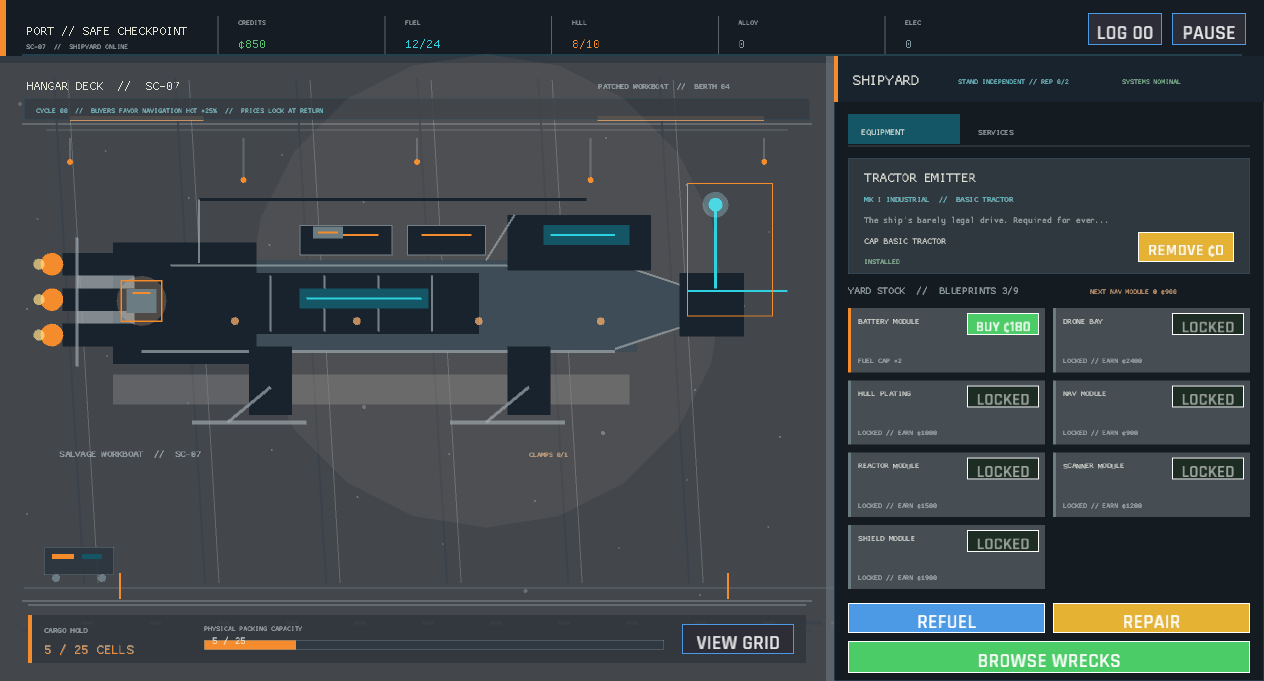
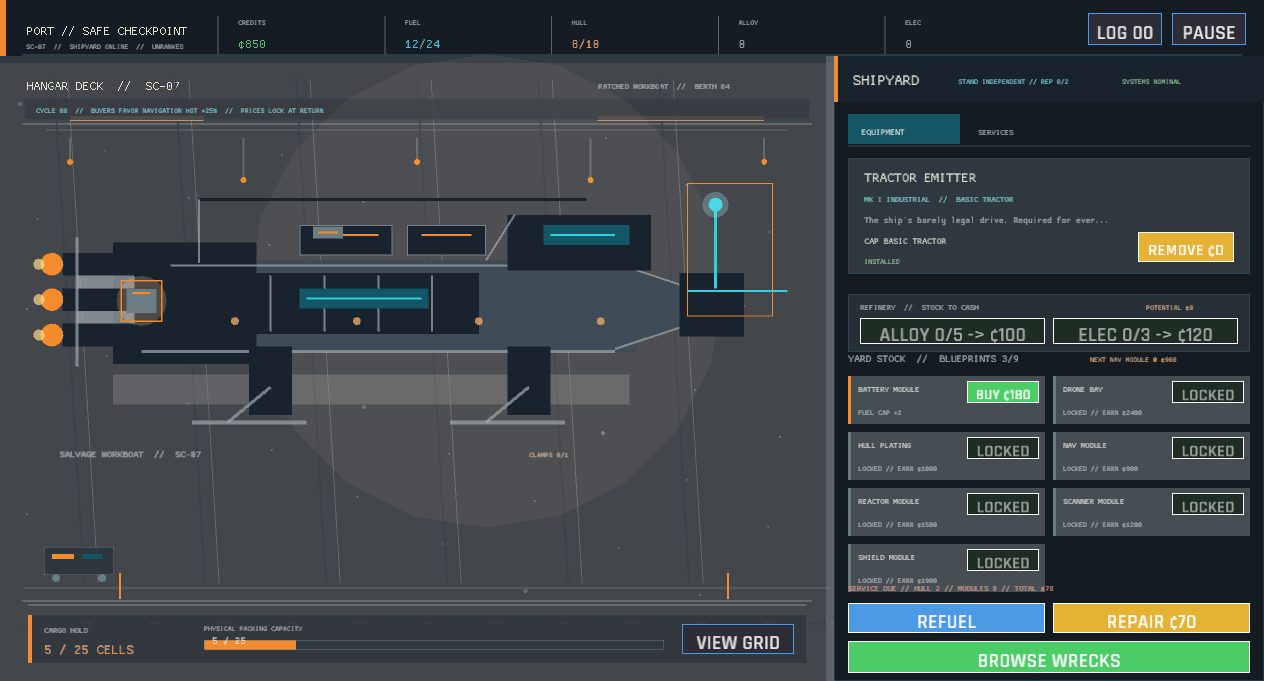
The port radio carries the captain's rank between every run (port career identity)
The shipyard header now carries a compact career rank code so progression remains visible during ordinary outfitting and refueling. The rank derives from the same commendation thresholds used by the archive, with focused coverage for the fleet tier and an updated port verification capture.

diff --git a/src/state/career.rs b/src/state/career.rs
@@ -170,6 +170,16 @@ impl CareerStats {
         }
     }
 
+    pub fn rank_code(&self) -> &'static str {
+        match self.earned_awards().len() {
+            0 => "UNRANKED",
+            1..=2 => "WORKING",
+            3..=4 => "SEASONED",
+            5..=6 => "FLEET",
+            _ => "LEGEND",
+        }
+    }
+
     pub fn validate(&self) -> Result<(), String> {
         if self.safe_returns > self.voyages_completed
             || self.contracts_completed > self.voyages_completed

diff --git a/src/ui/header.rs b/src/ui/header.rs
@@ -153,7 +153,13 @@ fn draw_port_header(ctx: &UiContext<'_>, actions: &mut Vec<UiAction>) {
         visual_theme::text(),
     );
     draw_text(
-        "SC-07  //  SHIPYARD ONLINE",
+        &clipped(
+            &format!(
+                "SC-07  //  SHIPYARD ONLINE  //  {}",
+                ctx.session.career.rank_code()
+            ),
+            42,
+        ),
         26.0,
         49.0,
         9.0,

diff --git a/src/state/career/tests.rs b/src/state/career/tests.rs
@@ -99,6 +99,7 @@ fn career_awards_turn_lifetime_figures_into_a_rank() {
     };
 
     assert_eq!(stats.rank_label(), "FLEET FIXTURE");
+    assert_eq!(stats.rank_code(), "FLEET");
     assert_eq!(stats.earned_awards().len(), 5);
     assert_eq!(stats.next_award(), Some(CareerAward::FrameSurveyor));
     assert!(stats.earned_awards().contains(&CareerAward::ContractHand));
